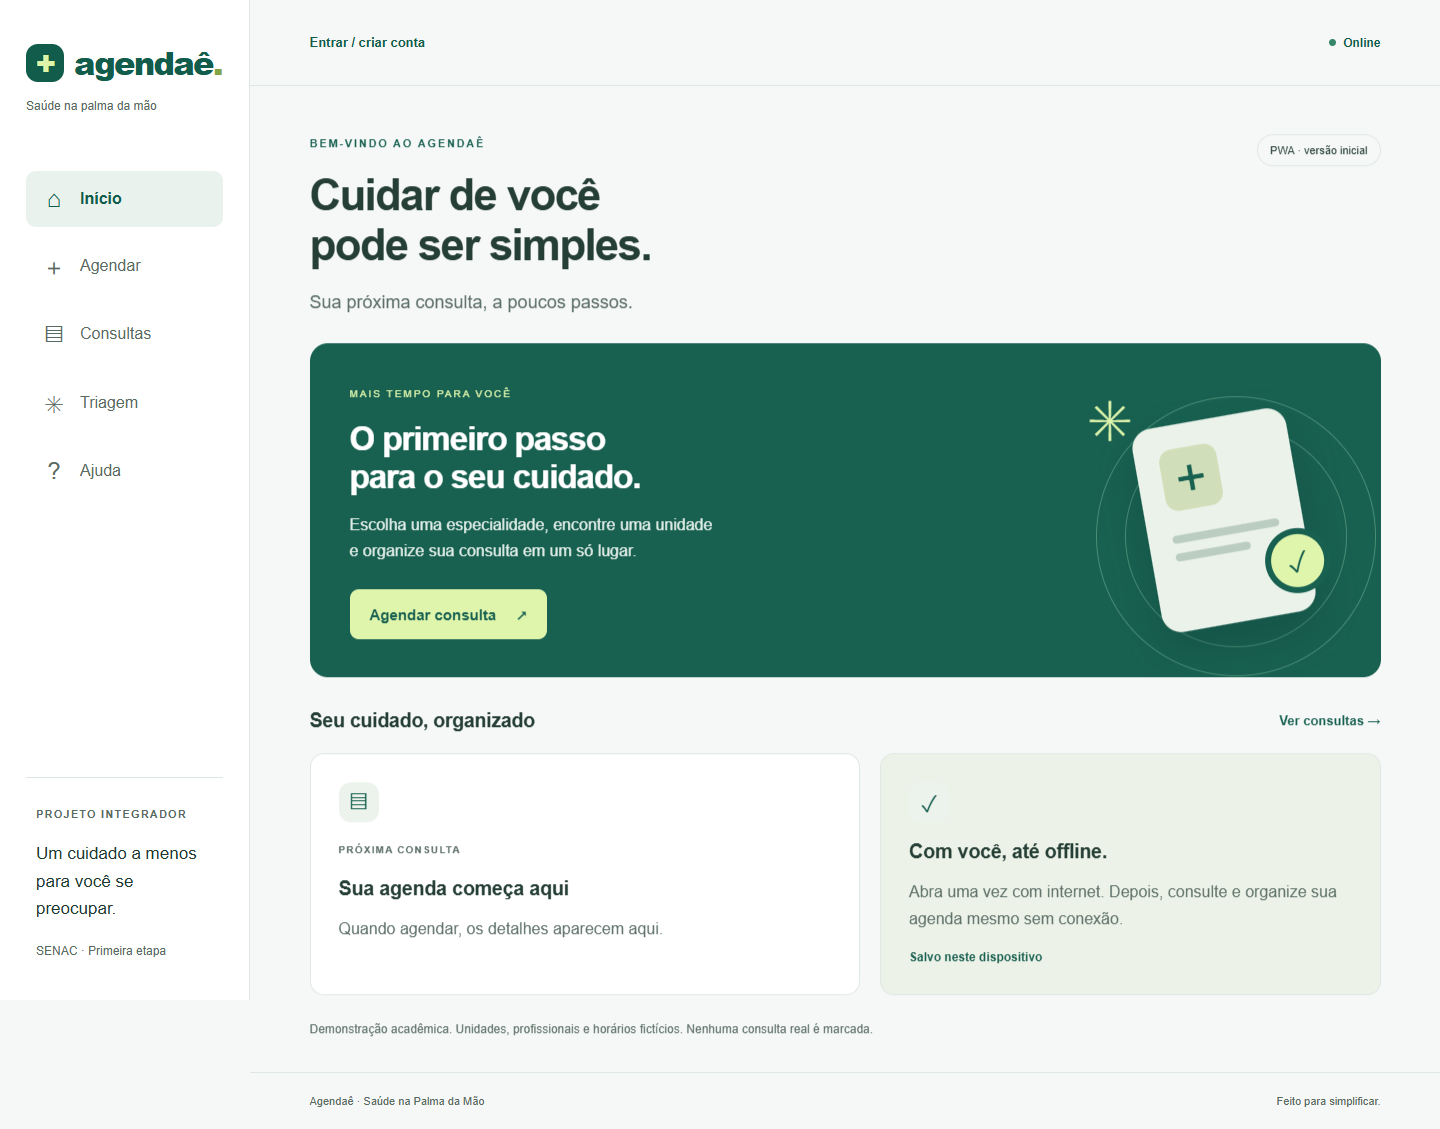
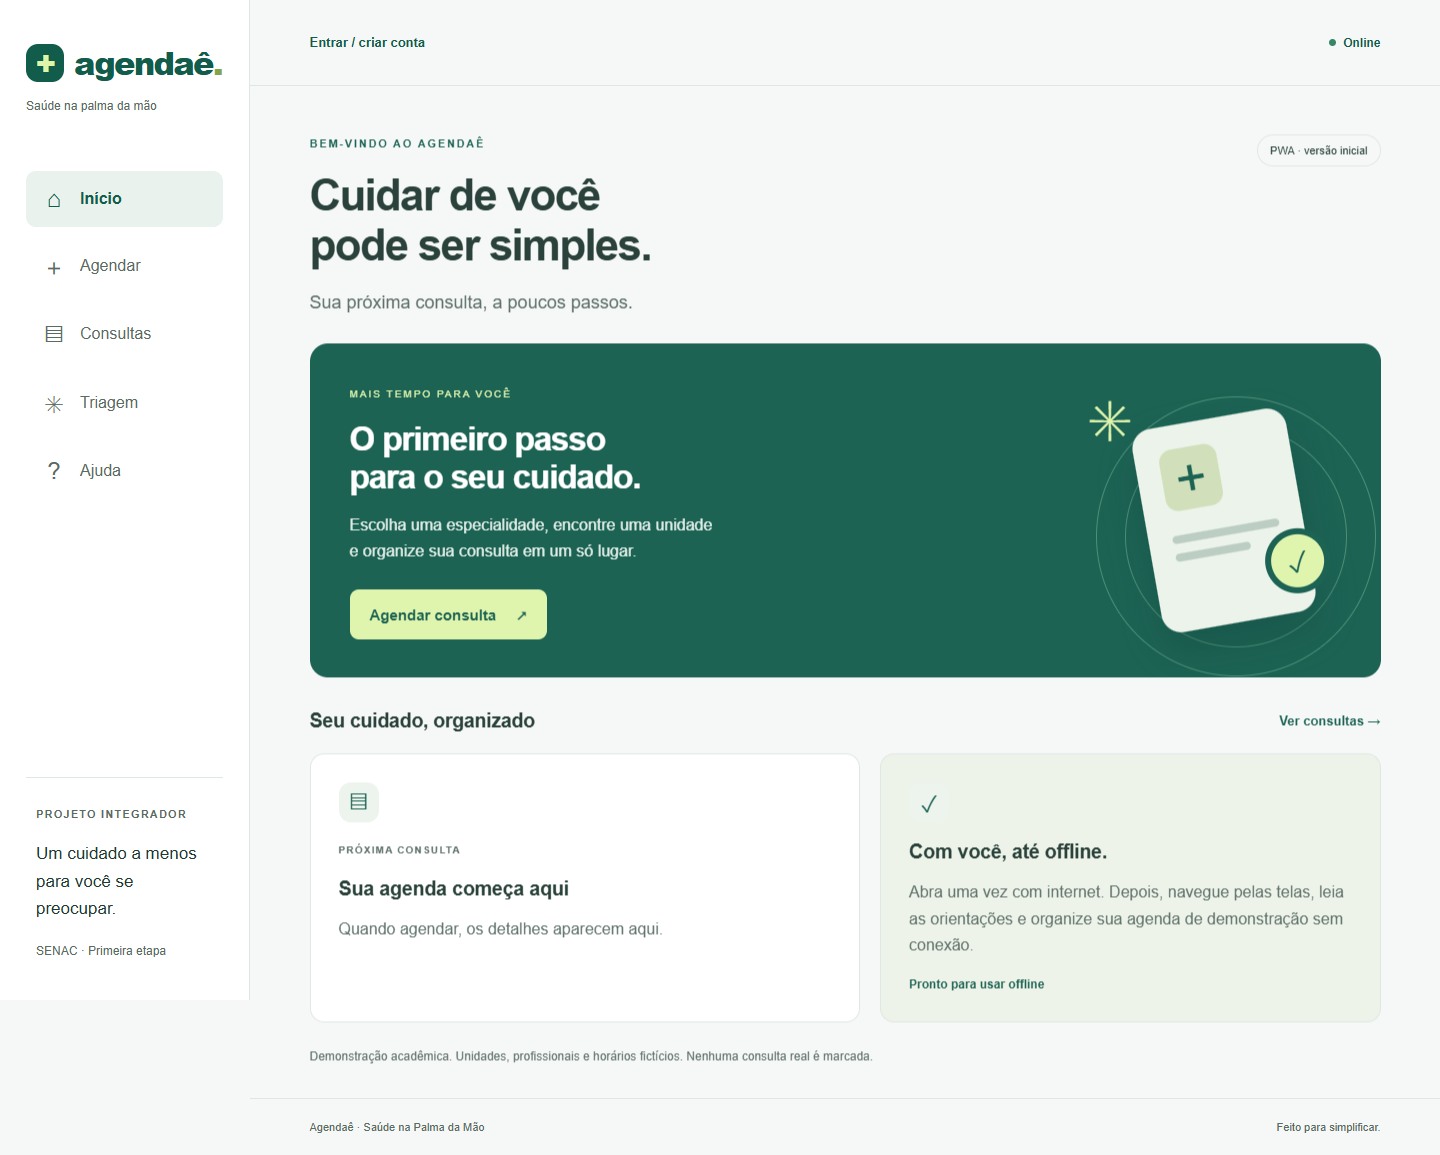
feat: App Shell em cache com navegacao e leitura offline

diff --git a/public/index.html b/public/index.html
@@ -8,11 +8,12 @@
   <link rel="manifest" href="/manifest.json">
   <link rel="icon" type="image/png" href="/icons/icon-192.png">
   <link rel="apple-touch-icon" href="/icons/icon-192.png">
-  <link rel="stylesheet" href="/css/style.css?v=2">
+  <link rel="stylesheet" href="/css/style.css?v=3">
   <title>Agendaê · Saúde na Palma da Mão</title>
-  <script defer src="/js/catalog.js?v=2"></script>
-  <script defer src="/js/account.js?v=2"></script>
-  <script defer src="/js/app.js?v=2"></script>
+  <script defer src="/js/catalog.js?v=3"></script>
+  <script defer src="/js/account.js?v=3"></script>
+  <script defer src="/js/pwa.js?v=3"></script>
+  <script defer src="/js/app.js?v=3"></script>
 </head>
 <body>
   <a class="skip-link" href="#main">Pular para o conteúdo</a>
@@ -31,11 +32,12 @@
   <div class="workspace">
     <header class="topbar"><a id="account-link" href="#conta">Entrar / criar conta</a><div class="topbar-actions"><button id="logout" class="button small secondary" hidden>Sair</button><span id="connection" class="connection" role="status">Online</span><button id="install" class="button small secondary" hidden>Instalar app</button></div></header>
     <main id="main" tabindex="-1">
+      <p id="offline-banner" class="offline-banner" role="status" hidden>Você está offline. As telas, orientações e a agenda de demonstração continuam disponíveis.</p>
       <section id="inicio" class="page">
         <div class="page-heading"><div><p class="eyebrow">BEM-VINDO AO AGENDAÊ</p><h1>Cuidar de você<br>pode ser simples.</h1><p class="muted">Sua próxima consulta, a poucos passos.</p></div><span class="pill">PWA · versão inicial</span></div>
         <div class="hero"><div><span class="hero-label">MAIS TEMPO PARA VOCÊ</span><h2>O primeiro passo<br>para o seu cuidado.</h2><p>Escolha uma especialidade, encontre uma unidade<br class="desktop-break"> e organize sua consulta em um só lugar.</p><a href="#agendar" class="button light">Agendar consulta <span aria-hidden="true">↗</span></a></div><div class="hero-art" aria-hidden="true"><div class="art-ring"></div><div class="art-card"><span class="art-cross">+</span><div class="art-line"></div><div class="art-line short"></div><span class="art-check">✓</span></div><span class="art-star">✳</span></div></div>
         <div class="section-heading"><h2>Seu cuidado, organizado</h2><a href="#consultas">Ver consultas →</a></div>
-        <div class="overview"><article class="card upcoming"><div class="card-icon" aria-hidden="true">▤</div><p class="small-label">PRÓXIMA CONSULTA</p><div id="next-appointment"><h3>Sua agenda começa aqui</h3><p class="muted">Quando agendar, os detalhes aparecem aqui.</p></div></article><article class="card offline-card"><div class="card-icon" aria-hidden="true">✓</div><h3>Com você, até offline.</h3><p class="muted">Abra uma vez com internet. Depois, consulte e organize sua agenda mesmo sem conexão.</p><span class="local-label">Salvo neste dispositivo</span></article></div>
+        <div class="overview"><article class="card upcoming"><div class="card-icon" aria-hidden="true">▤</div><p class="small-label">PRÓXIMA CONSULTA</p><div id="next-appointment"><h3>Sua agenda começa aqui</h3><p class="muted">Quando agendar, os detalhes aparecem aqui.</p></div></article><article class="card offline-card"><div class="card-icon" aria-hidden="true">✓</div><h3>Com você, até offline.</h3><p class="muted">Abra uma vez com internet. Depois, navegue pelas telas, leia as orientações e organize sua agenda de demonstração sem conexão.</p><span id="app-shell-status" class="local-label">Acesso offline em preparação</span></article></div>
         <p class="demo-note">Demonstração acadêmica. Unidades, profissionais e horários fictícios. Nenhuma consulta real é marcada.</p>
       </section>
       <section id="agendar" class="page" hidden>

diff --git a/public/css/style.css b/public/css/style.css
@@ -4,3 +4,4 @@
 @media(max-width:760px){.sidebar{position:static;width:auto;padding:20px 22px 0;border-right:0;background:var(--bg)}.brand{font-size:29px}.brand-caption{margin:8px 0 0;font-size:11px}.sidebar-note{display:none}.sidebar nav{position:fixed;bottom:0;left:0;right:0;display:flex;justify-content:space-around;gap:0;background:white;border-top:1px solid var(--border);padding:8px 6px max(8px,env(safe-area-inset-bottom));z-index:10}.sidebar nav a{flex:1;flex-direction:column;gap:2px;padding:5px 0;font-size:11px;min-height:54px;border-radius:8px}.sidebar nav a span{font-size:22px}.workspace{margin-left:0}.topbar{height:52px;padding:0 22px;border-bottom:0}.topbar>span{font-size:9px;letter-spacing:1px}.topbar-actions{gap:8px}.connection{font-size:11px}main{padding:28px 22px 28px;min-height:calc(100vh - 240px)}h1{font-size:35px;letter-spacing:-1.3px}.page-heading{gap:10px}.pill{font-size:9px;padding:7px;margin-top:3px}.page-heading .muted{font-size:16px}.hero{padding:28px;min-height:auto}.hero h2{font-size:29px}.hero p{font-size:15px}.hero-art{display:none}.overview{grid-template-columns:1fr}.card{padding:24px}.section-heading{align-items:center}.section-heading h2{font-size:18px}.section-heading a:not(.button){font-size:11px}.booking-layout{grid-template-columns:1fr;gap:12px}.booking-aside{padding:10px 8px}.booking-aside .aside-symbol,.booking-aside h2,.booking-aside hr{display:none}.booking-aside p{font-size:13px}.booking-form{padding:22px}.booking-form h2{font-size:22px}.time-slots{grid-template-columns:repeat(3,1fr)}.help-grid{grid-template-columns:1fr}.appointment{align-items:flex-start;flex-direction:column}.appointment>.button{align-self:flex-end}.section-heading:has(h1){align-items:flex-start;flex-direction:column}.intro{font-size:16px}footer{padding:20px 22px 100px;gap:20px;font-size:10px}.toast{bottom:88px}.demo-note{font-size:11px}.button{font-size:14px}.topbar .button{font-size:11px;padding:8px}.desktop-break{display:none}}
 @media(prefers-reduced-motion:no-preference){.button{transition:filter .15s}.page{animation:appear .2s ease-out}@keyframes appear{from{opacity:.6;transform:translateY(4px)}to{opacity:1;transform:translateY(0)}}}
 .auth-form{max-width:520px}.auth-form .button{margin-top:12px}.demo-link{display:block;text-align:center;margin-top:22px;font-size:14px}.appointment-actions{display:flex;gap:8px;flex-wrap:wrap}textarea{font:inherit;width:100%;padding:14px;border:1px solid #b8c7bf;border-radius:8px;margin-bottom:24px;resize:vertical;font-size:16px}.safety-notice{padding:18px;border:1px solid #dcc89d;background:#fff9eb;border-radius:10px;font-size:15px}.triage-result{margin-top:20px}.triage-result .button{margin-top:20px}.triage-hint{margin:18px 0 0!important}#cancel-edit{margin-top:10px}.topbar #account-link{font-size:13px;letter-spacing:0;max-width:55%;overflow:hidden;text-overflow:ellipsis;white-space:nowrap}@media(max-width:760px){.sidebar nav a{font-size:10px}.appointment-actions{align-self:flex-end}}
+.offline-banner{padding:14px 18px;margin:0 0 26px;background:#edf2e8;border:1px solid #c8d9c2;border-radius:10px;color:var(--green);font-size:14px;line-height:1.6}

diff --git a/public/sw.js b/public/sw.js
@@ -1,17 +1,30 @@
-const CACHE = 'agendae-v2';
-const ESSENTIALS = ['/', '/index.html', '/css/style.css', '/js/app.js', '/js/account.js', '/js/catalog.js', '/manifest.json', '/icons/icon-192.png', '/icons/icon-512.png', '/icons/icon-maskable-512.png'];
+// App Shell: estrutura, navegação e recursos públicos independentes da API.
+const APP_SHELL_CACHE = 'agendae-shell-v3';
+const APP_SHELL_DOCUMENT = '/index.html';
+const APP_SHELL_FILES = [APP_SHELL_DOCUMENT, '/css/style.css', '/js/app.js', '/js/account.js', '/js/catalog.js', '/js/pwa.js', '/manifest.json', '/icons/icon-192.png', '/icons/icon-512.png', '/icons/icon-maskable-512.png'];
 self.addEventListener('install', event => {
-  event.waitUntil(caches.open(CACHE).then(cache => cache.addAll(ESSENTIALS)).then(() => self.skipWaiting()));
+  // A instalação só termina depois que todos os arquivos do shell foram salvos.
+  event.waitUntil(caches.open(APP_SHELL_CACHE).then(cache => cache.addAll(APP_SHELL_FILES)).then(() => self.skipWaiting()));
 });
 self.addEventListener('activate', event => {
-  event.waitUntil(caches.keys().then(keys => Promise.all(keys.filter(key => key.startsWith('agendae-') && key !== CACHE).map(key => caches.delete(key)))).then(() => self.clients.claim()));
+  event.waitUntil(caches.keys().then(keys => Promise.all(keys.filter(key => key.startsWith('agendae-') && key !== APP_SHELL_CACHE).map(key => caches.delete(key)))).then(() => self.clients.claim()));
 });
+async function fromAppShell(request, cacheKey) {
+  const cache = await caches.open(APP_SHELL_CACHE);
+  const cached = await cache.match(cacheKey, { ignoreSearch: true });
+  if (cached) return cached;
+  // Recupera um recurso público se o navegador tiver removido parte do cache.
+  const response = await fetch(request);
+  if (response.ok) await cache.put(cacheKey, response.clone());
+  return response;
+}
 self.addEventListener('fetch', event => {
   const url = new URL(event.request.url);
   if (event.request.method !== 'GET' || url.origin !== self.location.origin || url.pathname.startsWith('/api/')) return;
   if (event.request.mode === 'navigate') {
-    event.respondWith(fetch(event.request).catch(() => caches.match('/index.html')));
+    // Cache First: uma conexão lenta não bloqueia a abertura da interface.
+    event.respondWith(fromAppShell(APP_SHELL_DOCUMENT, APP_SHELL_DOCUMENT));
     return;
   }
-  if (ESSENTIALS.includes(url.pathname)) event.respondWith(caches.match(event.request, { ignoreSearch: true }).then(cached => cached || fetch(event.request)));
+  if (APP_SHELL_FILES.includes(url.pathname)) event.respondWith(fromAppShell(event.request, url.pathname));
 });

diff --git a/public/js/pwa.js b/public/js/pwa.js
@@ -1,0 +1,44 @@
+// Carrega o App Shell sem depender do login, do banco ou da IA.
+const APP_SHELL_CACHE = 'agendae-shell-v3';
+const APP_SHELL_FILES = ['/index.html', '/css/style.css', '/js/app.js', '/js/account.js', '/js/catalog.js', '/js/pwa.js', '/manifest.json', '/icons/icon-192.png', '/icons/icon-512.png', '/icons/icon-maskable-512.png'];
+
+function setOfflineStatus(ready, message) {
+  document.querySelector('#offline-ready').textContent = message;
+  document.querySelector('#app-shell-status').textContent = ready ? 'Pronto para usar offline' : 'Acesso offline em preparação';
+}
+
+async function checkAppShell() {
+  if (!('caches' in window)) return false;
+  const cache = await caches.open(APP_SHELL_CACHE);
+  const files = await Promise.all(APP_SHELL_FILES.map(file => cache.match(file)));
+  const ready = files.every(Boolean);
+  if (ready) setOfflineStatus(true, 'Modo offline pronto');
+  return ready;
+}
+
+async function initializePwa() {
+  if (!('serviceWorker' in navigator)) {
+    setOfflineStatus(false, 'Este navegador não oferece modo offline.');
+    return;
+  }
+  navigator.serviceWorker.addEventListener('controllerchange', () => { checkAppShell().catch(() => {}); });
+  try {
+    const registration = await navigator.serviceWorker.register('/sw.js');
+    const watchWorker = worker => {
+      if (!worker) return;
+      worker.addEventListener('statechange', () => {
+        if (worker.state === 'activated') checkAppShell().catch(() => {});
+        if (worker.state === 'redundant') setOfflineStatus(false, 'Não foi possível preparar o offline. Reconecte e recarregue.');
+      });
+    };
+    watchWorker(registration.installing);
+    registration.addEventListener('updatefound', () => watchWorker(registration.installing));
+    await navigator.serviceWorker.ready;
+    await checkAppShell();
+  } catch {
+    const ready = await checkAppShell().catch(() => false);
+    if (!ready) setOfflineStatus(false, 'Reconecte para preparar o modo offline. Use localhost ou HTTPS.');
+  }
+}
+
+initializePwa();

diff --git a/public/js/app.js b/public/js/app.js
@@ -166,6 +166,7 @@ function navigate(focus = true) {
 function updateConnection() {
   $('#connection').textContent = navigator.onLine ? 'Online' : 'Offline';
   $('#connection').classList.toggle('offline', !navigator.onLine);
+  $('#offline-banner').hidden = navigator.onLine;
 }
 
 function askConfirmation(title, description, action) {
@@ -204,7 +205,7 @@ async function submitBooking(event) {
   } finally { button.disabled = false; }
 }
 
-async function initialize() {
+function initialize() {
   appointments = readAppointments();
   $('#specialty').replaceChildren(...catalog.specialties.map(item => option(item, item)));
   $('#date').min = today(); $('#date').value = nextWeekday();
@@ -227,12 +228,11 @@ async function initialize() {
   $('#install').addEventListener('click', async () => { if (!installPrompt) return; await installPrompt.prompt(); installPrompt = undefined; $('#install').hidden = true; });
   window.addEventListener('appinstalled', () => { $('#install').hidden = true; showToast('Agendaê instalado.'); });
   initializeAccount();
-  if ('serviceWorker' in navigator) {
-    try {
-      await navigator.serviceWorker.register('/sw.js'); await navigator.serviceWorker.ready;
-      $('#offline-ready').textContent = 'Modo offline pronto';
-    } catch { $('#offline-ready').textContent = 'Modo offline indisponível. Abra em localhost ou HTTPS.'; }
-  } else { $('#offline-ready').textContent = 'Este navegador não oferece modo offline.'; }
+  refreshCatalog();
+}
+
+async function refreshCatalog() {
+  if (!navigator.onLine) return;
   try {
     const response = await fetch('/api/catalog', { signal: AbortSignal.timeout(5000) });
     if (!response.ok) return;

diff --git a/public/js/account.js b/public/js/account.js
@@ -105,6 +105,7 @@ async function initializeAccount() {
       showToast('Você saiu da sua conta.');
     } catch (error) { showToast(error.message); }
   });
+  if (!navigator.onLine) return;
   try {
     const status = await apiRequest('status');
     if (!status.accounts) {

diff --git a/README.md b/README.md
@@ -291,7 +291,27 @@ Códigos principais: `200` sucesso, `201` criação, `401` sessão ausente/invá
 
 O manifest configura nome, nome curto, cores, idioma, `start_url`, escopo, modo `standalone` e ícones de 192/512 pixels, incluindo uma versão maskable.
 
-O Service Worker precacheia HTML, CSS, JavaScript, catálogo, manifest e ícones. A navegação tenta a rede e usa o HTML armazenado quando estiver offline. Recursos essenciais usam cache; chamadas `/api/` e métodos de escrita não são interceptados. Versões antigas do cache da aplicação são removidas na ativação.
+### Service Worker → Cache → App Shell
+
+```mermaid
+flowchart LR
+    A[Primeiro acesso online] --> B[Service Worker: install]
+    B --> C[Cache agendae-shell-v3]
+    C --> D[App Shell: HTML, CSS, JS, catálogo e ícones]
+    E[Reabrir com ou sem internet] --> F[Service Worker: fetch]
+    F --> C
+    D --> G[Interface, navegação e leitura já disponíveis]
+```
+
+O **App Shell** é a estrutura principal da aplicação: menu, cabeçalho, telas, estilos, scripts, instruções, catálogo público e ícones. Todas as telas estão no HTML precacheado; não é preciso visitar cada uma antes de desconectar.
+
+Em `public/sw.js`, `APP_SHELL_FILES` lista os recursos e `install` só termina quando todos estão armazenados. O cache tem versão própria, `agendae-shell-v3`. Na ativação, o worker assume o controle e remove versões antigas da aplicação.
+
+Na navegação e nos arquivos do shell, a estratégia é **Cache First**: a interface abre pelo cache, sem esperar uma conexão lenta ou uma API responder. Uma busca de rede só é necessária para recuperar um recurso público ausente. A inicialização e o registro do worker foram separados: `public/js/pwa.js` registra o Service Worker e verifica se todos os arquivos do shell estão em cache antes de indicar que o offline está pronto.
+
+Sem conexão, o usuário pode reabrir a aplicação, navegar por Início, Agendar, Consultas, Triagem, Conta e Ajuda, ler orientações e consultar o catálogo. Também pode executar o CRUD de demonstração. A tela informa o estado offline. APIs, autenticação e IA não fazem parte do cache e suas operações precisam de internet; abrir essas telas e ler suas informações continua possível offline.
+
+A preparação exige um primeiro acesso online concluído. Um dispositivo que nunca acessou o site não possui os arquivos para abri-lo sem rede. Se o navegador apagar o armazenamento, será necessário preparar o cache novamente.
 
 Para demonstrar offline:
 
@@ -319,7 +339,7 @@ npm run test:e2e
 | Navegador | Cadastro/login, CRUD, persistência, edição offline, manifest, cache e layouts |
 | Instalação | Elegibilidade da PWA no Chrome fora do modo anônimo |
 
-Na última validação funcional, passaram **5 testes de regras/API/IA e 4 testes de navegador**. Os testes de persistência usam SQLite local; não representam teste de conexão com PostgreSQL remoto. As respostas da OpenAI são simuladas; não comprovam funcionamento com uma chave real ou adequação clínica.
+Na última validação funcional, passaram **5 testes de regras/API/IA e 5 testes de navegador**. A suíte também fecha a página e reabre offline, verifica telas não visitadas anteriormente, leitura, estilos e navegação sem requisições à API. Os testes de persistência usam SQLite local; não representam teste de conexão com PostgreSQL remoto. As respostas da OpenAI são simuladas; não comprovam funcionamento com uma chave real ou adequação clínica.
 
 O Playwright usa Chrome instalado e a porta 3000. Ele reutiliza um servidor existente; confirme que esse servidor executa a versão atual do projeto. As capturas ficam em `artifacts/`, e os relatórios temporários são ignorados pelo Git.
 
